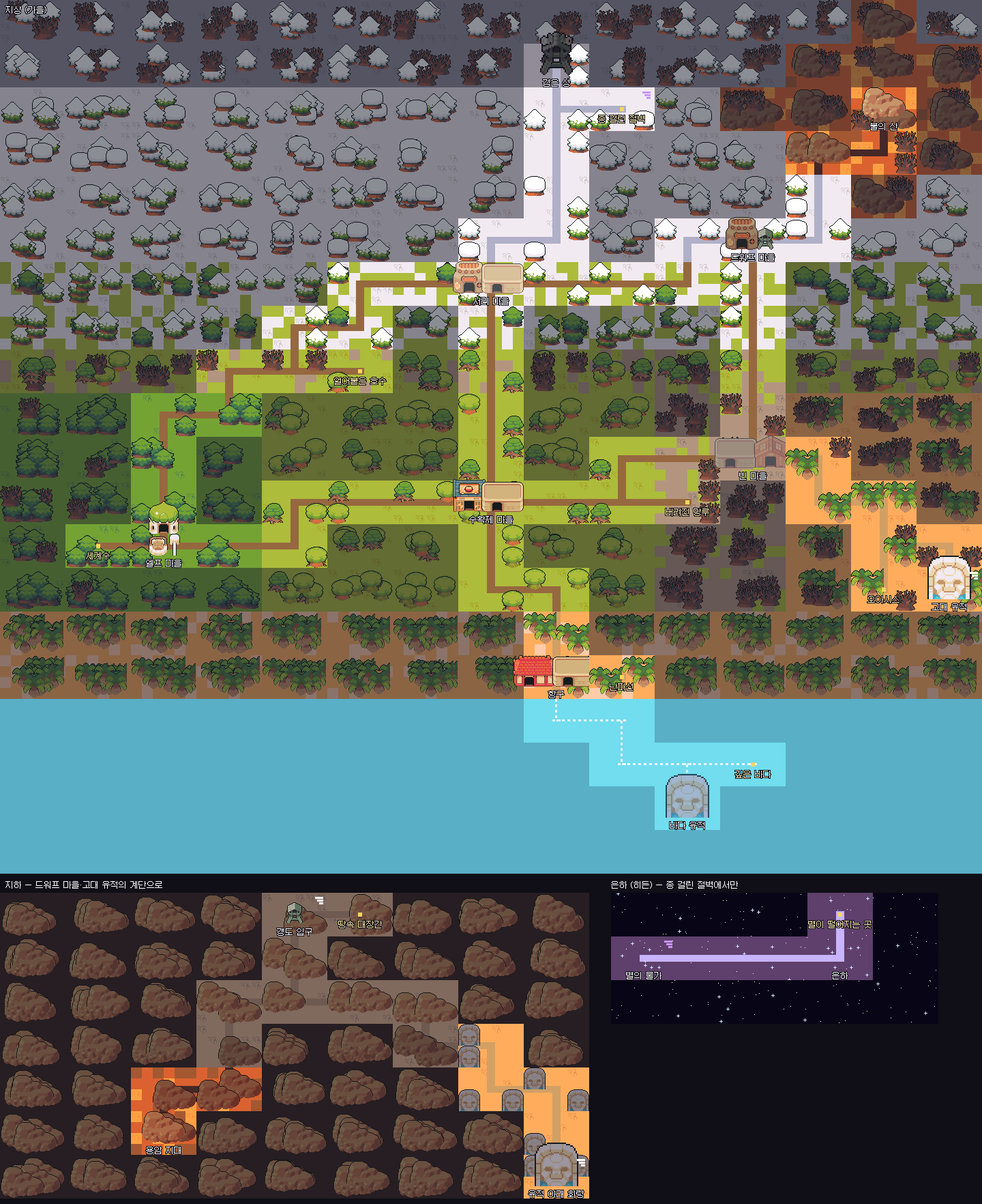
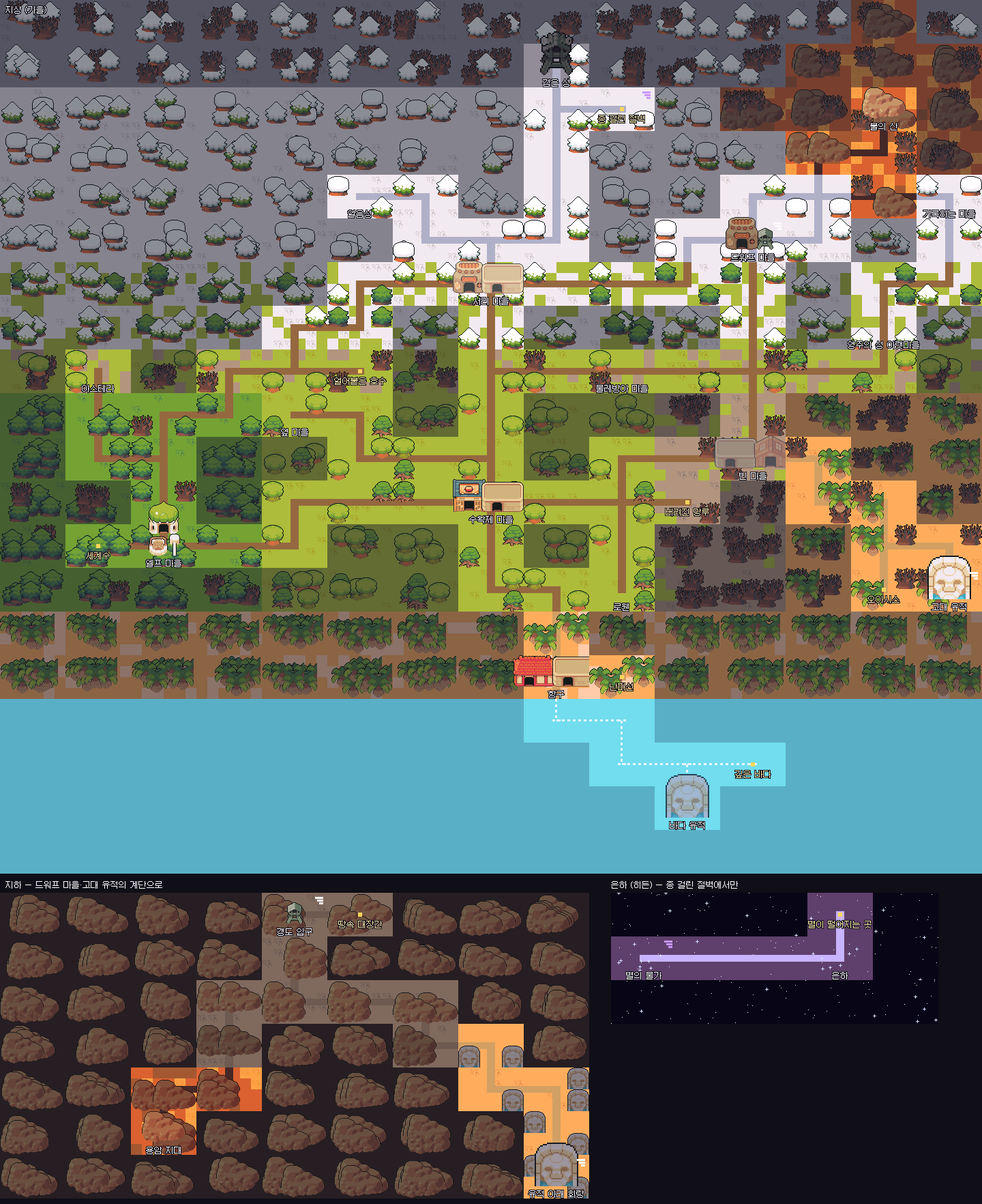
도시 둘: 분수 광장의 교역 도시 로웬(우리 마을 남동쪽, 장터 천막·상인 조합·여관·경비대, 열두 명)과 깊은 숲의 마법 도시 아스테라(엘프 마을 너머, 마법사의 탑·마력 수정·대서고, 열 명 — 탑의 주인은 루를 안다). 분수·마법사의 탑은 팩 색으로 찍음, 천막·벽 분수·수정은 팩 그림. 전체 지도 다시 그림

Changed region(s): [[0.0, 0.1247, 1.0, 0.5924], [0.0, 0.7483, 0.625, 0.9977]]

diff --git a/content/characters/folk.js b/content/characters/folk.js
@@ -1,0 +1,55 @@
+// 다른 도시의 사람들 (로웬·아스테라). 한 파일에 모아 둔다 — 이야기의 중심은 아니지만 도시를 붐비게 한다(background).
+// 그림은 팩 인물에 색을 바꾸고 실루엣이 달라지는 덧그림(두건·망토·깃털·왕관)을 얹었다(같은 바탕을 쓰려면 덧그림이 있어야 한다).
+// lines: 그 도시에 들렀을 때 E로 말 걸면 하는 대화(content/talk/talk.js가 합친다). 그때 알 수 있는 것만 말한다.
+const P = (id, name, role, age, color, home, sprite, lines) => ({ id, name, role, age, color, erasable: false, background: true, home, sprite, silhouette: role, bubbles: {}, remnant: null, lines });
+const S = (base, shareBase, recolor, edits) => ({ base, shareBase, recolor, edits });
+
+export const FOLK = {
+  // ── 로웬 (교역 도시) ──
+  orban: P('orban', '오르반', '상인 조합장', 56, '#d8b060', 'trade', S('Noble', 'chief', { '4e484a': '8a6a2a', '3b3643': '5a4418' }, [{ type: 'crown' }]),
+    [['북쪽 길이 끊긴 뒤로 조합 장부가 반쪽이 됐네.', '[mood=neutral]국경 마을과 거래하던 상단이 [y]통째로[/y] 소식이 없어.'], ['[mood=smile]견습 기사로군. 우리 상단 호위 일이 있으면 말하지.']]),
+  rico: P('rico', '리코', '거리의 악사', 27, '#e08a6a', 'trade', S('Boy', 'me', { d14b34: 'c8743a', '965340': '8a4a22', e3f1f5: 'e8c8a0', '548789': 'a85a3a' }, [{ type: 'feather' }]),
+    [['♪ 분수 앞에선 노래가 두 배로 울려.', '[mood=smile]마왕 토벌 노래? 그거 [y]요즘 제일 잘 팔려[/y].'], ['페르 영감? 그 노래 원조라던 할아범 말이지. [mood=neutral]뒷소절은 아무도 안 불러.']]),
+  mai: P('mai', '마이', '과일 장수', 24, '#f0a050', 'trade', S('Woman', 'rine', { '548789': 'c87a3a', '79b8ce': 'f0a860' }, [{ type: 'headband', color: 'f0d070' }]),
+    [['사과 사세요! [mood=smile]남쪽 과수원 거예요.', '분수에 동전 던지면 [y]소원[/y]이 이뤄진대요. 난 매일 던져요.']]),
+  devon: P('devon', '데본', '천 장수', 45, '#8a6ab0', 'trade', S('Villager3', 'farmer', { '56864c': '6a4a8a', a8a129: '9a7ac0' }, [{ type: 'cape', color: '5a3a7a', dark: '3a2450' }]),
+    [['보랏빛 천은 마법 도시에서 와. [mood=neutral]숲 너머, 엘프 마을보다 더 깊은 데.'], ['[mood=sad]마이가 내 조카야. 언니가 국경 마을로 시집갔는데… [w=300]요즘 편지가 없어.']]),
+  barbara: P('barbara', '바바라', '여관 주인', 48, '#c89070', 'trade', S('OldWoman', 'granny', { a5608b: '8a5a4a', d3a2c0: 'c8a090', '548789': '6a4a3a', '2d697b': '4a3428' }, [{ type: 'headband', color: 'f4ead6' }]),
+    [['「은빛 분수」에 어서 와요. [mood=smile]방은 넉넉해요. 요즘 북쪽 손님이 뚝 끊겨서.'], ['소집 가는 기사들이 다음 달엔 몰려오겠지. 국을 [y]두 솥[/y] 끓여 둬야겠어.']]),
+  nina: P('nina', '니나', '여관 딸', 19, '#f08aa0', 'trade', S('Princess', 'mia', {}, [{ type: 'headband', color: 'e86a8a' }]),
+    [['[mood=shy]기사님이세요? …견습이요? 그래도 멋있어요.'], ['엄마가 분수 동전은 [y]주워 오면 안 된대요[/y]. 소원 훔치는 거라고.']]),
+  karl: P('karl', '카를', '로웬 경비병', 36, '#7a8aa0', 'trade', S('Knight', 'tom', { '4e484a': '5a6a8a', '3b3643': '3a4a6a' }, [{ type: 'cape', color: '3a4a7a', dark: '24305a' }]),
+    [['로웬 경비대다. 분수 광장에서 소매치기 조심해라.'], ['[mood=neutral]북쪽에서 오는 피난민이 늘었다. 악마가 마을을 [y]비운다[/y]더군.']]),
+  mateo: P('mateo', '마테오', '로웬 경비병', 23, '#8a9ab0', 'trade', S('Knight', 'tom', { '4e484a': '6a7a9a', '3b3643': '4a5a7a' }, [{ type: 'feather' }]),
+    [['[mood=smile]여기 분수는 영주님이 놓아 주신 거래. 물이 [y]산에서[/y] 내려와.'], ['나도 견습부터 시작했어. 루라는 마법사한테 굴렀다고? [mood=laugh]그 사람 유명해.']]),
+  paul: P('paul', '폴', '방앗간 일꾼', 38, '#b0a070', 'trade', S('Inspector', 'hort', { a3754e: 'b0a070', '91522c': '7a6a3a' }, [{ type: 'headband', color: '8a6a3a' }]),
+    [['밀가루 자루 나르는 게 일이야.', '[mood=neutral]올해는 들판 밀이 다 [y]군량[/y]으로 간대.']]),
+  ida: P('ida', '이다', '폴의 아내', 35, '#d0a0b0', 'trade', S('Villager2', 'woman', { '4a5270': '8a5a6a', '548789': 'b88a9a' }, [{ type: 'headband', color: 'f0c0d0' }]),
+    [['미로가 분수에 빠질 뻔했어요. [mood=angry]세 번째예요, 이번 달만.']]),
+  miro: P('miro', '미로', '폴과 이다의 아들', 8, '#f0c060', 'trade', S('Child', 'kid', { '5f7160': '4a8ac0' }, [{ type: 'feather' }]),
+    [['분수 물 마셔 봤어? [mood=laugh]차가워!'], ['[mood=smile]형 기사야? 칼 보여 줘!']]),
+  heda: P('heda', '헤다', '꽃 파는 할머니', 70, '#e0a0c0', 'trade', S('OldWoman', 'granny', { a5608b: 'c87aa0', d3a2c0: 'f0c0d8', '548789': '6a8a4a', '2d697b': '4a6a3a' }, [{ type: 'crown' }]),
+    [['꽃 한 송이 사 가. [mood=smile]고향에 두고 온 사람 주라고.'], ['[mood=sad]우리 영감은 [y]꽃 이름[/y]을 다 외웠는데. 난 반밖에 몰라.']]),
+
+  // ── 아스테라 (마법 도시) ──
+  arka: P('arka', '아르카', '탑의 주인', 62, '#b088e0', 'magic', S('SorcererBlack', 'lu', { e0394c: 'e8d8ff', '8f3e56': 'b8a0e0', '4e484a': '3a2a5a', '5f7160': '24183a' }, [{ type: 'crown' }]),
+    [['아스테라에 온 걸 환영하네. 숲이 길을 열어 줬다면, 자네는 [y]숲을 해치지 않은[/y] 사람이겠지.'], ['[mood=neutral]루? …그 아이를 아나. [w=300]오래전에 이 탑을 나갔지. 무엇을 붙들려다 그리 됐는지는, 그 아이에게 묻지 말게.']]),
+  fio: P('fio', '피오', '견습 마법사', 18, '#8ad0f0', 'magic', S('SorcererBlack', 'lu', { e0394c: '8ad0f0', '8f3e56': '4a90c0', '4e484a': '2a4a6a', '5f7160': '1a3048' }, [{ type: 'feather' }]),
+    [['[mood=smile]불꽃 하나 띄우는 데 석 달 걸렸어요.', '수정에 손 대지 마세요! [y]손가락이 얼어요[/y].']]),
+  selma: P('selma', '셀마', '견습 마법사', 20, '#f0a0d0', 'magic', S('SorcererBlack', 'lu', { e0394c: 'f0a0d0', '8f3e56': 'c06090', '4e484a': '5a2a4a', '5f7160': '3a1830' }, [{ type: 'headband', color: 'f8e080' }]),
+    [['피오가 또 실험 망쳤어요. [mood=angry]서고 책장이 반쯤 탔다고요.'], ['[mood=neutral]마법은 [y]기억하는 일[/y]이래요. 주문은 잊으면 끝이니까.']]),
+  onel: P('onel', '오넬', '대서고 사서', 54, '#c8b890', 'magic', S('Monk', 'monk', { '56864c': '5a4a7a', '345a52': '3a2e54' }, [{ type: 'cape', color: '4a3a6a', dark: '2e2448' }]),
+    [['대서고에선 조용히. [mood=neutral]책은 소리 없이 기억하네.'], ['북쪽 왕국 연대기가 있네. 그런데 [y]망한 해[/y]의 장만 비어 있어. 찢긴 게 아니라, 처음부터.']]),
+  kira: P('kira', '키라', '물약 장수', 31, '#7ae0a0', 'magic', S('Villager4', 'selena', { f1c471: '7ac080', d78b4a: '4a8a5a', d14b34: '8a5ab0', '8f3e56': '5a3a80' }, [{ type: 'headband', color: '7ae0a0' }]),
+    [['회복 물약? [mood=smile]진짜 회복 물약은 비싸요. 재료가 [y]세계수 이슬[/y]이라.'], ['화상 연고는 싸요. 견습들이 하도 데어서.']]),
+  doran: P('doran', '도란', '수정 깎는 장인', 47, '#a0c0e0', 'magic', S('Hunter', 'hunter', { '4a5270': '4a5a7a', '548789': '6a8ab0', '79b8ce': 'a0c0e0' }, [{ type: 'cape', color: '6a8ab0', dark: '4a6a90' }]),
+    [['수정은 깎는 게 아니라 [y]달래는[/y] 거야.', '[mood=neutral]요즘 수정이 자꾸 흐려져. 숲 바깥 어딘가에서 마력이 새고 있어.']]),
+  har: P('har', '하르', '별 보는 노인', 77, '#d8d0f0', 'magic', S('OldMan3', 'merchant', { f1c471: 'd8d0f0', '3b3643': '4a3a6a' }, [{ type: 'feather' }]),
+    [['밤마다 별을 센다네. [mood=neutral]이상하지, 셀 때마다 [y]하나씩 모자라[/y].'], ['…종소리 같은 걸 들은 적 있나. 아주 먼 데서, 열두 번보다 많이.']]),
+  mel: P('mel', '멜', '마법사', 39, '#9a8ad0', 'magic', S('Villager2', 'woman', { '4a5270': '4a3a7a', '548789': '7a6ab0' }, [{ type: 'cape', color: '3a2a6a', dark: '24184a' }]),
+    [['솔은 아직 주문 하나 못 외워요. [mood=smile]그래도 [y]꽃은 잘 피워요[/y]. 마법 없이.']]),
+  sol: P('sol', '솔', '멜의 딸', 10, '#f0e080', 'magic', S('Child', 'kid', { '5f7160': '8a6ac0' }, [{ type: 'headband', color: 'f0e080' }]),
+    [['[mood=smile]이거 봐! 내가 키운 꽃이야. 탑 꼭대기까지 자랄 거야.']]),
+  bane: P('bane', '베인', '아스테라 문지기', 44, '#8a7aa0', 'magic', S('Knight', 'tom', { '4e484a': '4a3a6a', '3b3643': '2e2448' }, [{ type: 'cape', color: '6a4aa0', dark: '4a3080' }]),
+    [['아스테라 문이다. [mood=neutral]숲이 들여보냈다면 나도 막지 않는다.'], ['[y]도끼[/y]를 든 자는 이 숲에서 길을 잃는다. 기억해 둬라.']]),
+};

diff --git a/content/places/magic.js b/content/places/magic.js
@@ -1,0 +1,46 @@
+// 아스테라에 들르기 (1~4장). 엘프 마을 너머 깊은 숲 속의 마법 도시. 숲을 베지 않은 사람에게만 길이 열린다(src/world/visits.js의 문턱).
+// 마법사들은 루를 안다. 그러나 왜 탑을 나갔는지는 말하지 않는다(루의 저주 — 말하면 번진다).
+import { N, T, keep, WALK } from '../chapters/dsl.js';
+
+const at = (m) => Object.fromEntries(Object.entries(m).map(([id, [x, y, mode, radius]]) => [id, { at: [x, y], mode: mode ?? 'idle', radius, face: 'down' }]));
+
+export const phases = {
+  magic: {
+    map: 'magic', visit: true, keepTime: true, place: '아스테라', time: 'day', clock: true,
+    player: { at: [20, 29], face: 'up' },
+    npcs: at({
+      arka: [28, 10], fio: [30, 21, 'wander', 1], selma: [29, 22], onel: [19, 8], kira: [7, 24], doran: [12, 29],
+      har: [9, 10], mel: [27, 29], sol: [29, 28, 'wander', 1], bane: [22, 27],
+    }),
+    onEnter: 'magic.arrive',
+    events: [
+      { id: 'magic.lu', when: { unlessErased: 'lu' }, trigger: { near: 'arka', r: 3 }, run: 'magic.lu' },
+      { id: 'magic.chronicle', trigger: { zone: 'library' }, run: 'magic.chronicle' },
+    ],
+  },
+};
+
+export const script = {
+  'magic.arrive': [
+    WALK,
+    N('숲이 갑자기 끝나고, 보랏빛 지붕의 탑들이 나타났다. 광장의 수정 기둥이 낮인데도 은은하게 빛났다.', { unlessFlag: 'visited.magic' }),
+    N('아스테라. 마법사들의 도시라고, 이야기로만 듣던 곳이었다.', { unlessFlag: 'visited.magic' }),
+    { flag: 'visited.magic' },
+    { flag: 'visited.surface:1,8' },
+  ],
+  'magic.lu': [
+    T('arka', '자네… 루의 냄새가 나는군. 그 아이 곁에 있었나.'),
+    T('me', '루를 아세요?'),
+    T('arka', '이 탑에서 자랐지. 가장 재능 있는 아이였어. 무언가를 [y]붙들려다[/y] 탑을 나갔네.'),
+    T('me', '뭘 붙들려고요? 얼굴의 반점은—'),
+    T('arka', '그건 그 아이에게 묻지 말게. 나에게도. [w=300]말이 그 아이를 해칠 테니.'),
+    N('탑의 주인은 그 이상 말하지 않았다. 다음 손님이 기다리고 있었다.'),
+    { flag: 'magic.lu' },
+  ],
+  'magic.chronicle': [
+    WALK,
+    N('대서고의 서가 하나에 북쪽 왕국의 연대기가 꽂혀 있었다. 펼쳐 보니 왕국이 망한 해의 장이 비어 있었다.'),
+    N('찢긴 자국도 없이, 처음부터 빈 종이였다. …셀레나의 명부 같았다.'),
+    T('onel', '그 장은 아무도 못 채웠네. 쓰려고 하면 [y]무엇을 써야 할지[/y] 잊어버린다더군.'),
+  ],
+};

diff --git a/content/places/trade.js b/content/places/trade.js
@@ -1,0 +1,43 @@
+// 로웬에 들르기 (1~4장). 분수 광장의 교역 도시. 장사꾼과 경비병, 여관, 그리고 북쪽 국경에서 소식이 끊긴 상단 이야기.
+// 사건은 작게: 분수에 동전을 던지면 소원(아무 일도 일어나지 않는다), 국경에서 온 피난민의 한마디.
+import { N, T, WALK } from '../chapters/dsl.js';
+
+const at = (m) => Object.fromEntries(Object.entries(m).map(([id, [x, y, mode, radius]]) => [id, { at: [x, y], mode: mode ?? 'idle', radius, face: 'down' }]));
+
+export const phases = {
+  trade: {
+    map: 'trade', visit: true, keepTime: true, place: '로웬', time: 'day', clock: true,
+    player: { at: [21, 4], face: 'down' },
+    npcs: at({
+      orban: [11, 7], rico: [24, 19, 'idle'], mai: [13, 16], devon: [16, 16], barbara: [31, 7], nina: [33, 8, 'wander', 1],
+      karl: [21, 10], mateo: [35, 22], paul: [8, 16, 'wander', 2], ida: [9, 28], miro: [17, 21, 'wander', 2], heda: [27, 23],
+    }),
+    onEnter: 'trade.arrive',
+    events: [
+      { id: 'trade.coin', trigger: { idle: 4, near: 'rico', r: 4, minTime: 3 }, run: 'trade.coin' },
+      { id: 'trade.refugee', when: { ifFlag: 'trade.coin' }, trigger: { near: 'karl', r: 3 }, run: 'trade.refugee' },
+    ],
+  },
+};
+
+export const script = {
+  'trade.arrive': [
+    WALK,
+    N('돌 깔린 길이 넓어지더니, 광장 한가운데서 분수가 물을 뿜고 있었다. 천막마다 사람이 북적였다.', { unlessFlag: 'visited.trade' }),
+    N('로웬. 우리 마을에서 이틀 거리의 장터 도시였다. 이렇게 사람이 많은 곳은 처음이었다.', { unlessFlag: 'visited.trade' }),
+    { flag: 'visited.trade' },
+    { flag: 'visited.surface:9,13' },
+  ],
+  // 분수 곁에 가만히 서 있으면: 동전 하나
+  'trade.coin': [
+    WALK,
+    N('분수 바닥에 동전이 반짝였다. 나도 하나 던졌다. 무엇을 빌었는지는 말하지 않기로 했다.'),
+    T('rico', '[mood=smile]뭘 빌었어? …말하면 안 이뤄진대. 알아.'),
+  ],
+  'trade.refugee': [
+    WALK,
+    T('karl', '북쪽에서 온 피난민들이 광장 끝에 모여 있다. 마을이 하룻밤에 비었다더군.'),
+    T('karl', '불탄 집도 없고, 싸운 흔적도 없고. 사람만 없다고. 다들 [y]악마[/y] 짓이라 한다.'),
+    N('전령이 했던 말과 같았다. 나는 손바닥의 반지를 쥐었다. …비었다는 마을에도, 기억하는 사람이 하나쯤은 남았을까.'),
+  ],
+};

diff --git a/content/world/world.js b/content/world/world.js
@@ -34,6 +34,8 @@ export const HUBS = {
   ancient:   { at: [14, 13], name: '고대 유적',  kind: 'ancient', note: '사막에 묻힌 석상들. 이 세계보다 오래된 글자가 새겨져 있다' },
   volcano:   { at: [13, 2],  name: '불의 산',    kind: 'volcano', note: '북쪽인데도 땅이 뜨겁다. 드워프의 대장간 불씨가 여기서 온다' },
   harbor:    { at: [8, 15],  name: '항구',        kind: 'village', note: '배를 타면 바다로 나갈 수 있다', field: 'harbor' },
+  trade:     { at: [9, 13],  name: '로웬',        kind: 'village', note: '분수 광장의 교역 도시. 우리 마을·빈 마을·항구 사이의 장터', field: 'trade' },
+  magic:     { at: [1, 8],   name: '아스테라',    kind: 'village', note: '엘프 마을 너머 깊은 숲 속의 마법 도시. 마법사의 탑과 대서고', field: 'magic' },
   seaRuins:  { at: [10, 18], name: '바다 유적',  kind: 'seaRuins', note: '물에 잠긴 고대 도시. 썰물 때만 지붕이 보인다' },
   mineGate:  { layer: 'under', at: [4, 0], name: '갱도 입구',     kind: 'mine',  note: '드워프 마을 바로 아래' },
   lavaDepths:{ layer: 'under', at: [2, 5], name: '용암 지대',     kind: 'lava',  note: '지하 가장 깊은 곳. 땅속 불의 강' },
@@ -62,6 +64,10 @@ export const ROUTES = {
   'frost-dwarf':    { path: [[7, 6], [8, 6], [9, 6], [10, 6], [10, 5], [11, 5]] },
   'dwarf-volcano':  { path: [[11, 5], [12, 5], [12, 4], [12, 3], [13, 3], [13, 2]] },
   'home-harbor':    { path: [[7, 11], [7, 12], [7, 13], [8, 13], [8, 14], [8, 15]] },
+  // 로웬: 빈 마을 가는 길에서 남쪽으로 갈라진다
+  'home-trade':     { path: [[7, 11], [8, 11], [9, 11], [9, 12], [9, 13]] },
+  // 아스테라: 엘프 마을에서 서리 마을 가는 옛길을 따라가다 서쪽 깊은 숲으로
+  'elf-magic':      { path: [[2, 12], [2, 11], [2, 10], [1, 10], [1, 9], [1, 8]] },
   'harbor-seaRuins': { by: 'boat', path: [[8, 15], [8, 16], [9, 16], [9, 17], [10, 17], [10, 18]] },
   // 엘프 마을에서 서리 마을로 바로 가는 옛길 (얼어붙은 숲, 길고 춥다)
   'elf-frost':      { path: [[2, 12], [2, 11], [2, 10], [2, 9], [3, 9], [3, 8], [4, 8], [4, 7], [5, 7], [5, 6], [6, 6], [7, 6]] },

diff --git a/content/maps/trade.js b/content/maps/trade.js
@@ -1,0 +1,32 @@
+// 로웬 (44×34칸, 전체 지도 surface:9,13). 우리 마을 남동쪽 들판의 교역 도시. 우리 마을·빈 마을·항구 사이라 장사꾼이 모인다.
+// 돌 깔린 큰 광장 가운데 분수, 장터 천막, 상인 조합, 여관. 북쪽 길이 우리 마을 쪽(surface:9,12)으로 이어진다.
+import { makeTown, O } from './town.js';
+
+export default makeTown({
+  id: 'trade', name: '로웬', W: 44, H: 34, theme: 'grass',
+  dirt: [[20, 0, 4, 34], [8, 12, 28, 12], [4, 16, 36, 4], [10, 26, 24, 3]],
+  objects: [
+    // 광장: 가운데 분수, 둘레에 장터 천막
+    O('fountain', 19, 14),
+    O('stall_red', 12, 13), O('stall_yellow', 15, 13), O('stall_red', 28, 13), O('stall_yellow', 31, 13),
+    O('stall_yellow', 12, 21), O('stall_red', 31, 21),
+    O('lion_fountain', 38, 4),
+    // 건물
+    O('house_tall', 9, 2, { name: '상인 조합', residents: ['orban'] }),
+    O('house_tall', 29, 2, { name: '여관 「은빛 분수」', residents: ['barbara', 'nina'] }),
+    O('bakery', 4, 8, { name: '로웬 빵집' }),
+    O('house_red', 5, 24, { name: '폴과 이다의 집', residents: ['paul', 'ida', 'miro'] }),
+    O('house_stone', 33, 24, { name: '경비대 초소', residents: ['karl', 'mateo'] }),
+    O('house_orange', 26, 27, { name: '꽃 할머니 댁', residents: ['heda'] }),
+    O('shop', 14, 27, { name: '천 가게', residents: ['devon', 'mai'] }),
+    O('crate_loaves', 7, 12), O('basket_apples', 11, 17), O('basket_greens', 30, 17), O('flour_sack', 6, 12),
+    O('barrel', 27, 9), O('barrel', 28, 9), O('cart', 36, 17), O('crate', 16, 9), O('crate', 17, 9), O('bench', 24, 22), O('bench', 15, 22),
+    O('well', 36, 10), O('plant_pot', 18, 11), O('plant_pot', 25, 11),
+    O('tree_round', 4, 18), O('tree_round2', 38, 20), O('tree_big', 34, 11),
+  ],
+  ring: { types: ['tree_grove', 'tree_grove2', 'tree_pines'], gaps: { n: [20, 23] } },
+  exits: [{ dir: 'n', from: 20, to2: 24, to: 'surface:9,12', at: [9, 12] }],
+  entry: { n: [21, 4] },
+  spots: { fountain: { x: 21, y: 19 }, market: { x: 14, y: 17 }, inn: { x: 31, y: 6 }, guild: { x: 11, y: 6 } },
+  zones: { fountain: { x: 18, y: 13, w: 8, h: 8 } },
+});

diff --git a/content/audio/audio.js b/content/audio/audio.js
@@ -48,12 +48,12 @@ export const SFX = {
 };
 
 // 이야기 페이즈 → 음악
-export const PHASE_MUSIC = { prep: 'morning', festival: 'festival', morning: 'morning', night: 'night', aftermath: 'aftermath', fogroad: 'aftermath', neighbor: 'forest', ruin: 'empty', frost: 'frost', harbor: 'road', dwarf: 'cave', elf: 'forest', muster: 'aftermath', neighbor4: 'forest', mill: 'road', lordtown: 'road', ledger4: 'road', dwarf4: 'cave', icecastle4: 'snow', winter: 'frost', snowfest: 'festival' };
+export const PHASE_MUSIC = { prep: 'morning', festival: 'festival', morning: 'morning', night: 'night', aftermath: 'aftermath', fogroad: 'aftermath', neighbor: 'forest', ruin: 'empty', frost: 'frost', harbor: 'road', dwarf: 'cave', elf: 'forest', muster: 'aftermath', neighbor4: 'forest', mill: 'road', lordtown: 'road', ledger4: 'road', dwarf4: 'cave', icecastle4: 'snow', winter: 'frost', snowfest: 'festival', trade: 'festival', magic: 'snow' };
 
 // 길 맵 기후 → 음악, 깔리는 소리
 export const BIOME_MUSIC = {
   temperate: 'road', lateAutumn: 'road', coast: 'road', deepForest: 'forest', dry: 'empty',
-  frost: 'frost', harbor: 'road', dwarf: 'cave', elf: 'forest', muster: 'aftermath', neighbor4: 'forest', mill: 'road', lordtown: 'road', ledger4: 'road', dwarf4: 'cave', icecastle4: 'snow', snow: 'snow', blackSnow: 'castle', desert: 'ruins', volcano: 'lava',
+  frost: 'frost', harbor: 'road', dwarf: 'cave', elf: 'forest', muster: 'aftermath', neighbor4: 'forest', mill: 'road', lordtown: 'road', ledger4: 'road', dwarf4: 'cave', icecastle4: 'snow', trade: 'festival', magic: 'snow', snow: 'snow', blackSnow: 'castle', desert: 'ruins', volcano: 'lava',
   sea: 'sea', cave: 'cave', deepCave: 'cave', lava: 'lava', ancientHall: 'ruins', galaxy: 'galaxy',
 };
 export const BIOME_AMBIENT = { frost: 'wind', snow: 'wind', blackSnow: 'wind', coast: 'wave', sea: 'wave' };

diff --git a/content/maps/magic.js b/content/maps/magic.js
@@ -1,0 +1,26 @@
+// 아스테라 (40×34칸, 전체 지도 surface:1,8). 엘프 마을 너머 깊은 숲 속의 마법 도시. 마법사의 탑들과 마력 수정, 큰 서고.
+// 남쪽 길이 숲길(surface:1,9)로 이어진다. 건물과 나무는 보랏빛을 띤다(objectTint).
+import { makeTown, O } from './town.js';
+
+export default makeTown({
+  id: 'magic', name: '아스테라', W: 40, H: 34, theme: 'village', objectTint: 0xd8c8f0,
+  dirt: [[18, 10, 4, 24], [8, 14, 24, 6], [6, 6, 28, 3]],
+  objects: [
+    O('mage_tower', 6, 1, { name: '별의 탑', residents: ['har'] }),
+    O('mage_tower', 26, 1, { name: '탑의 주인의 탑', residents: ['arka'] }),
+    O('house_tall', 16, 0, { name: '아스테라 대서고', residents: ['onel'] }),
+    O('mage_tower', 32, 18, { name: '견습 마법사 숙소', residents: ['fio', 'selma'] }),
+    O('shop', 4, 20, { name: '물약 가게', residents: ['kira'] }),
+    O('house_stone', 10, 25, { name: '수정 공방', residents: ['doran'] }),
+    O('house_wood', 25, 25, { name: '멜과 솔의 집', residents: ['mel', 'sol'] }),
+    O('crystal', 13, 13), O('crystal', 25, 13), O('crystal', 13, 19), O('crystal', 25, 19),
+    O('fountain', 17, 15),
+    O('bookshelf_wide', 23, 8), O('bench', 9, 17), O('bench', 28, 17), O('plant_pot', 15, 9), O('plant_pot', 24, 9),
+    O('tree_big_pink', 2, 12), O('tree_pink', 34, 8), O('tree_big_pink', 33, 27), O('tree_pink', 4, 28),
+  ],
+  ring: { types: ['tree_grove_green', 'tree_grove', 'tree_pines'], gaps: { s: [18, 21] } },
+  exits: [{ dir: 's', from: 18, to2: 22, to: 'surface:1,9', at: [1, 9] }],
+  entry: { s: [20, 29] },
+  spots: { plaza: { x: 20, y: 22 }, library: { x: 18, y: 5 }, gate: { x: 20, y: 29 } },
+  zones: { library: { x: 16, y: 4, w: 8, h: 3 }, plaza: { x: 15, y: 14, w: 10, h: 7 } },
+});

diff --git a/content/art/pack.js b/content/art/pack.js
@@ -9,6 +9,8 @@ export const SHEETS = {
   nature: 'Backgrounds/Tilesets/TilesetNature.png',
   element: 'Backgrounds/Tilesets/TilesetElement.png',
   water: 'Backgrounds/Tilesets/TilesetWater.png',
+  desert: 'Backgrounds/Tilesets/TilesetDesert.png',
+  towers: 'Backgrounds/Tilesets/TilesetTowers.png',
 };
 
 // 흙길 자동 타일: 바닥 시트의 '풀 위의 흙' 블록 (타일 좌표). 8×8 사분면 단위로 조합한다.
@@ -70,6 +72,13 @@ export const OBJECTS = {
   forge: { sheet: 'house', rect: [464, 64, 48, 64], foot: [4, 30, 40, 34] },
   // 종탑: 큰 목조 회관을 바탕으로 박공 창에 종을 그려 넣은 변형본 (npm run assets가 만든다)
   belltower: { sheet: 'gen:belltower', rect: [0, 0, 48, 112], foot: [4, 96, 40, 16] }, // 팩 색으로 찍은 돌 종탑 (tools/build-assets.mjs)
+  // 도시: 광장 분수(팩 색으로 찍음, 물줄기 두 장 중 첫 장), 사자 머리 벽 분수, 장터 천막, 마법사의 탑, 마력 수정
+  fountain: { sheet: 'gen:fountain', rect: [0, 0, 48, 48], foot: [3, 26, 42, 20] },
+  lion_fountain: { sheet: 'desert', rect: [0, 96, 32, 48], foot: [2, 30, 28, 16] },
+  stall_red: { sheet: 'desert', rect: [32, 160, 32, 32], foot: [2, 18, 28, 12] },
+  stall_yellow: { sheet: 'desert', rect: [64, 160, 32, 32], foot: [2, 18, 28, 12] },
+  mage_tower: { sheet: 'gen:magetower', rect: [0, 0, 48, 96], foot: [8, 80, 32, 16] },
+  crystal: { sheet: 'towers', rect: [288, 64, 32, 32], foot: [8, 20, 16, 10] },
   // 집 안 가구 (팩의 TilesetElement). flat: 바닥에 깔려 사람이 밟고 지나간다(언제나 사람 아래)
   bed: { sheet: 'gen:furniture', rect: [0, 0, 16, 28], foot: [1, 4, 14, 22] },   // 침대: 팩에 없어 팩 색으로 찍었다
   bookshelf: { sheet: 'element', rect: [48, 112, 16, 32], foot: [0, 20, 16, 12] },

diff --git a/content/characters/index.js b/content/characters/index.js
@@ -46,6 +46,7 @@ import scribe from './scribe.js';
 import envoy from './envoy.js';
 import noel from './noel.js';
 import herald from './herald.js';
+import { FOLK } from './folk.js';
 import berta from './berta.js';
 import lili from './lili.js';
 import hans from './hans.js';
@@ -58,7 +59,7 @@ import ella from './ella.js';
 import bram from './bram.js';
 import sonja from './sonja.js';
 
-export const characters = { me, mia, selena, lu, eda, hort, tom, rine, per, keeper, leon, chief, granny, kid, farmer, hunter, monk, woman, oldman, spirit, wanderer, merchant, elf, orc, tork, sei, elder, lostknight, brenna, gord, yuna, marlo, nell, brok, helga, sylwen, alma, tobin, oswin, mara, scribe, envoy, noel, herald, berta, lili, hans, kai, teo, greta, wolf, rosa, ella, bram, sonja };
+export const characters = { me, mia, selena, lu, eda, hort, tom, rine, per, keeper, leon, chief, granny, kid, farmer, hunter, monk, woman, oldman, spirit, wanderer, merchant, elf, orc, tork, sei, elder, lostknight, brenna, gord, yuna, marlo, nell, brok, helga, sylwen, alma, tobin, oswin, mara, scribe, envoy, noel, herald, berta, lili, hans, kai, teo, greta, wolf, rosa, ella, bram, sonja , ...FOLK};
 
 // 로드 시 지워질 수 있는 사람(동점일 때 이 순서)
 export const ERASE_ORDER = ['hort', 'tom', 'rine', 'per', 'elder'];

diff --git a/content/talk/talk.js b/content/talk/talk.js
@@ -6,6 +6,7 @@
 // 이야기 진행용 대화(talk.<페이즈>.<인물> 컷신)가 있으면 그게 먼저 한 번 나온다.
 
 import { TALK_ROADS } from './roads.js';
+import { FOLK } from '../characters/folk.js';
 
 export const TALK = {
   // ── 히로인 ───────────────────────────────────────────────
@@ -191,6 +192,9 @@ export const TALK = {
 
 // 2~4장·길 위의 마을들의 대화(content/talk/roads.js)를 인물·페이즈별로 합친다
 for (const [id, byPhase] of Object.entries(TALK_ROADS)) TALK[id] = { ...TALK[id], ...byPhase };
+
+// 다른 도시 사람들의 대화(content/characters/folk.js의 lines): 그 도시에 들르는 페이즈(trade·magic)에서
+for (const f of Object.values(FOLK)) TALK[f.id] = { ...TALK[f.id], [f.home]: f.lines };
 
 // 처음 들을 때 오르는 호감도 (인물별로 바꾸고 싶으면 여기)
 export const TALK_AFF = 1;

diff --git a/content/chapters/index.js b/content/chapters/index.js
@@ -7,6 +7,8 @@ import * as frost from '../places/frost.js';
 import * as harbor from '../places/harbor.js';
 import * as dwarf from '../places/dwarf.js';
 import * as elfPlace from '../places/elf.js';
+import * as tradePlace from '../places/trade.js';
+import * as magicPlace from '../places/magic.js';
 import * as chapter1 from './chapter1/phases.js';
 import { script as chapter1Script } from './chapter1/script.js';
 import * as chapter2 from './chapter2/phases.js';
@@ -16,7 +18,7 @@ import { script as chapter3Script } from './chapter3/script.js';
 import * as chapter4 from './chapter4/phases.js';
 import { script as chapter4Script } from './chapter4/script.js';
 
-const PLACES = [ruin, frost, harbor, dwarf, elfPlace];
+const PLACES = [ruin, frost, harbor, dwarf, elfPlace, tradePlace, magicPlace];
 const withPlaces = (c) => ({
   ...c,
   phases: { ...c.phases, ...Object.assign({}, ...PLACES.map((p) => p.phases)) },

diff --git a/content/maps/index.js b/content/maps/index.js
@@ -5,6 +5,8 @@ import * as neighbor from './neighbor.js';
 import ruin from './ruin.js';
 import frost from './frost.js';
 import harbor from './harbor.js';
+import trade from './trade.js';
+import magic from './magic.js';
 import dwarf from './dwarf.js';
 import elf from './elf.js';
 import mill from './mill.js';
@@ -13,5 +15,5 @@ import myhome from './myhome.js';
 import ledger from './ledger.js';
 import icecastle from './icecastle.js';
 
-export const MAPS = { village, neighbor, ruin, frost, harbor, dwarf, elf, mill, lordtown, myhome, ledger, icecastle };
+export const MAPS = { village, neighbor, ruin, frost, harbor, dwarf, elf, mill, lordtown, myhome, ledger, icecastle, trade, magic };
 export const mapOf = (phase) => MAPS[phase?.map ?? 'village'];
